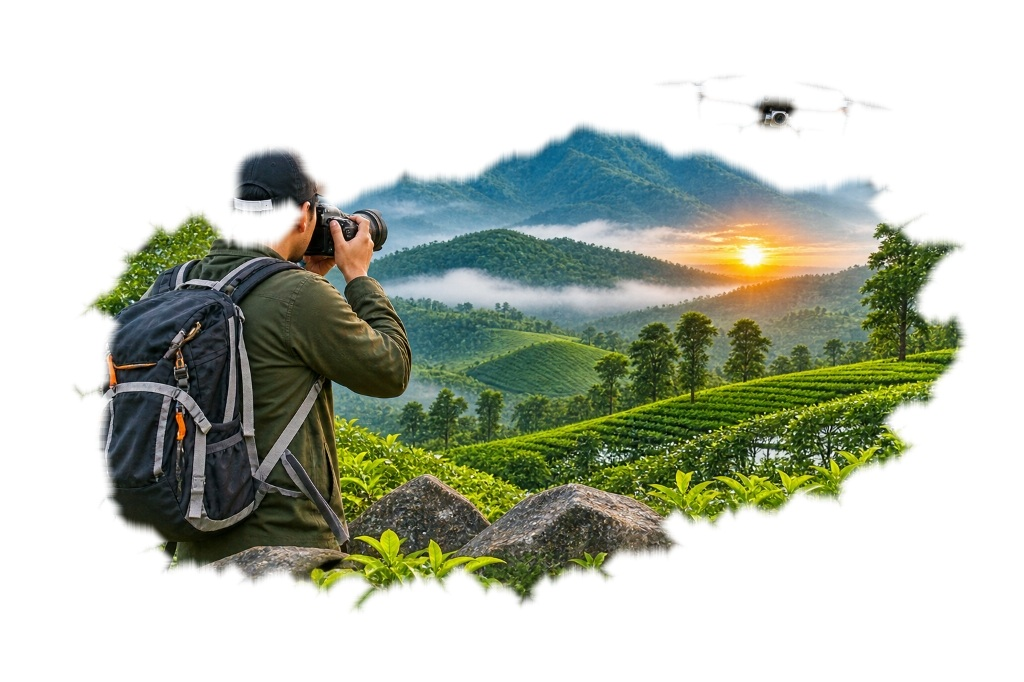
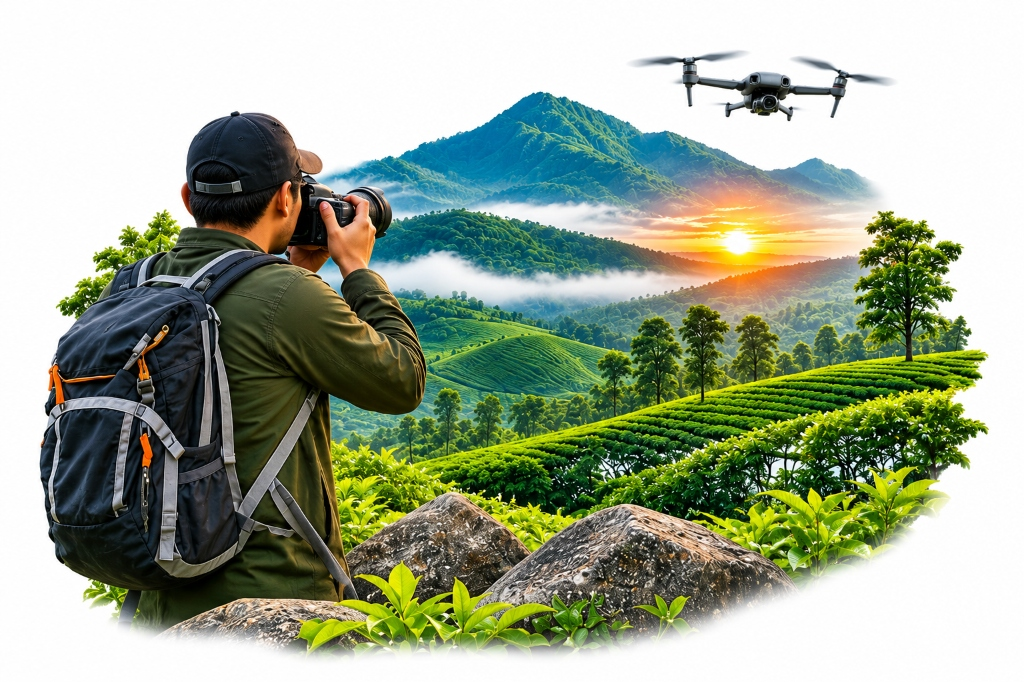
Update photography, drone, taxi and trekking destinations with authentic Kerala images

diff --git a/frontend/src/app/guide-trekking/page.tsx b/frontend/src/app/guide-trekking/page.tsx
@@ -21,56 +21,56 @@ export default function GuideTrekkingPage() {
       id: 'anamudi',
       name: 'Anamudi',
       district: 'Munnar, Idukki',
-      image: 'https://images.unsplash.com/photo-1464822759023-fed622ff2c3b?auto=format&fit=crop&w=800&q=80',
+      image: '/images/travel-photography-tea-road.jpg',
       difficulty: 'Moderate'
     },
     {
       id: 'meeshappulimala',
       name: 'Meeshappulimala',
       district: 'Rhodo Valley, Idukki',
-      image: 'https://images.unsplash.com/photo-1506744038136-46273834b3fb?auto=format&fit=crop&w=800&q=80',
+      image: '/images/jeep-meeshappulima.jpg',
       difficulty: 'Challenging'
     },
     {
       id: 'kolukkumalai',
       name: 'Kolukkumalai',
       district: 'High Ranges, Idukki',
-      image: 'https://images.unsplash.com/photo-1507525428034-b723cf961d3e?auto=format&fit=crop&w=800&q=80',
+      image: '/images/jeep-kolukkumalai.jpg',
       difficulty: 'Moderate'
     },
     {
       id: 'vagamon',
       name: 'Vagamon',
       district: 'Pine Valley & Meadows',
-      image: 'https://images.unsplash.com/photo-1519681393784-d120267933ba?auto=format&fit=crop&w=800&q=80',
+      image: '/images/jeep-vagamon.jpg',
       difficulty: 'Easy to Moderate'
     },
     {
       id: 'chembra-peak',
       name: 'Chembra Peak',
       district: 'Heart Lake, Wayanad',
-      image: 'https://images.unsplash.com/photo-1544644181-1484b3fdfc62?auto=format&fit=crop&w=800&q=80',
+      image: '/images/dest-wayanad.jpg',
       difficulty: 'Moderate'
     },
     {
       id: 'nelliyampathy',
       name: 'Nelliyampathy',
       district: 'Seethargundu Ridge, Palakkad',
-      image: 'https://images.unsplash.com/photo-1470071459604-3b5ec3a7fe05?auto=format&fit=crop&w=800&q=80',
+      image: '/images/jeep-nelliyampathy.jpg',
       difficulty: 'Moderate'
     },
     {
       id: 'mamalakkandam',
       name: 'Mamalakkandam',
       district: 'Virgin Forest River Trail',
-      image: 'https://images.unsplash.com/photo-1448375240586-882707db888b?auto=format&fit=crop&w=800&q=80',
+      image: '/images/jeep-mamalakkandam.jpg',
       difficulty: 'Adventure River'
     },
     {
       id: 'anakkulam',
       name: 'Anakkulam',
       district: 'Elephant Waterhole Trail',
-      image: 'https://images.unsplash.com/photo-1557050543-4d5f4e07ef46?auto=format&fit=crop&w=800&q=80',
+      image: '/images/jeep-kanthalloor.jpg',
       difficulty: 'Easy Nature Walk'
     }
   ];

diff --git a/frontend/src/app/photography-videography/drone-videography/page.tsx b/frontend/src/app/photography-videography/drone-videography/page.tsx
@@ -20,7 +20,7 @@ export default function DroneVideographyPage() {
       location: 'Munnar High Altitude Peaks',
       category: 'landscape',
       altitude: '120m AGL',
-      image: '/images/dest-munnar.jpg',
+      image: '/images/drone-pilot-kerala.jpg',
       tag: 'Aerial Landscape'
     },
     {
@@ -32,12 +32,12 @@ export default function DroneVideographyPage() {
       tag: 'Water Patterns'
     },
     {
-      title: 'Luxury Heritage Resort & Cliffside Villas Fly-Through',
-      location: 'Kovalam & Wayanad Private Estates',
-      category: 'resort',
-      altitude: '40m AGL',
-      image: '/images/dest-kovalam.jpg',
-      tag: 'Property Showcase'
+      title: 'Scenic Tea Valley Curvature & High Pass Flyover',
+      location: 'Munnar Tea Estates, Kerala',
+      category: 'landscape',
+      altitude: '90m AGL',
+      image: '/images/travel-photography-tea-road.jpg',
+      tag: 'Aerial Cinema'
     },
     {
       title: '4x4 Off-Road Jeep Ridge Chase Drone Footage',
@@ -56,12 +56,12 @@ export default function DroneVideographyPage() {
       tag: 'FPV Action'
     },
     {
-      title: 'Dubai Marina & Desert Dune Aerial Cinema',
-      location: 'Dubai Skyline & Dunes',
-      category: 'landscape',
-      altitude: '150m AGL',
-      image: '/images/bg-international-dubai.jpg',
-      tag: 'International Aerial'
+      title: 'Luxury Heritage Resort & Cliffside Villas Fly-Through',
+      location: 'Kovalam & Wayanad Private Estates',
+      category: 'resort',
+      altitude: '40m AGL',
+      image: '/images/dest-kovalam.jpg',
+      tag: 'Property Showcase'
     }
   ];
 
@@ -245,7 +245,7 @@ export default function DroneVideographyPage() {
             <div className="md:col-span-7 lg:col-span-7 order-1 md:order-2 flex items-center justify-center">
               <div className="relative w-full aspect-[16/10] min-h-[280px] sm:min-h-[380px] md:min-h-[440px] lg:min-h-[500px] flex items-center justify-center">
                 <Image
-                  src="/images/photo-gear-drone-camera.png"
+                  src="/images/drone-about-white.jpg"
                   alt="4K Aerial Drone Cinematography Jack Rider"
                   fill
                   sizes="(max-width: 768px) 100vw, 60vw"

diff --git a/frontend/src/app/photography-videography/page.tsx b/frontend/src/app/photography-videography/page.tsx
@@ -15,7 +15,7 @@ export default function PhotographyVideographyIndexPage() {
       subtitle: 'Discover the World Through Our Lens',
       desc: 'Capturing destinations, landscapes, wildlife, and authentic travel moments across Kerala, India, and global horizons.',
       href: '/photography-videography/travel-photography',
-      image: '/images/travel-photography-lake.jpg',
+      image: '/images/travel-photography-tea-road.jpg',
       icon: Camera,
       cta: 'Explore Travel Photos'
     },
@@ -42,7 +42,7 @@ export default function PhotographyVideographyIndexPage() {
       subtitle: 'See the World from a New Perspective',
       desc: 'Aerial landscape videos, destination footage and cinematic drone shots captured in 4K resolution by certified UAV pilots.',
       href: '/photography-videography/drone-videography',
-      image: '/images/photo-gear-drone-camera.png',
+      image: '/images/drone-pilot-kerala.jpg',
       icon: Plane,
       cta: 'View Aerial Drone Shots'
     }

diff --git a/frontend/src/app/photography-videography/event-photography/page.tsx b/frontend/src/app/photography-videography/event-photography/page.tsx
@@ -72,7 +72,7 @@ export default function EventPhotographyPage() {
         {/* Background Image: Dreamy Sunset Wedding / Celebration */}
         <div className="absolute inset-0 z-0">
           <Image
-            src="https://images.unsplash.com/photo-1519741497674-611481863552?auto=format&fit=crop&w=1920&q=80"
+            src="/images/event-photography-wedding.jpg"
             alt="Event Photography in Kerala - Jack Rider"
             fill
             priority

diff --git a/frontend/src/app/photography-videography/travel-photography/page.tsx b/frontend/src/app/photography-videography/travel-photography/page.tsx
@@ -17,10 +17,10 @@ export default function TravelPhotographyPage() {
 
   const galleryItems = [
     {
-      title: 'Misty Tea Hills & Serene Reservoir',
+      title: 'Misty Tea Hills & Winding Mountain Road',
       location: 'Munnar & Mattupetty, Kerala',
       category: 'kerala',
-      image: '/images/dest-munnar.jpg',
+      image: '/images/travel-photography-tea-road.jpg',
       tag: 'Landscape'
     },
     {
